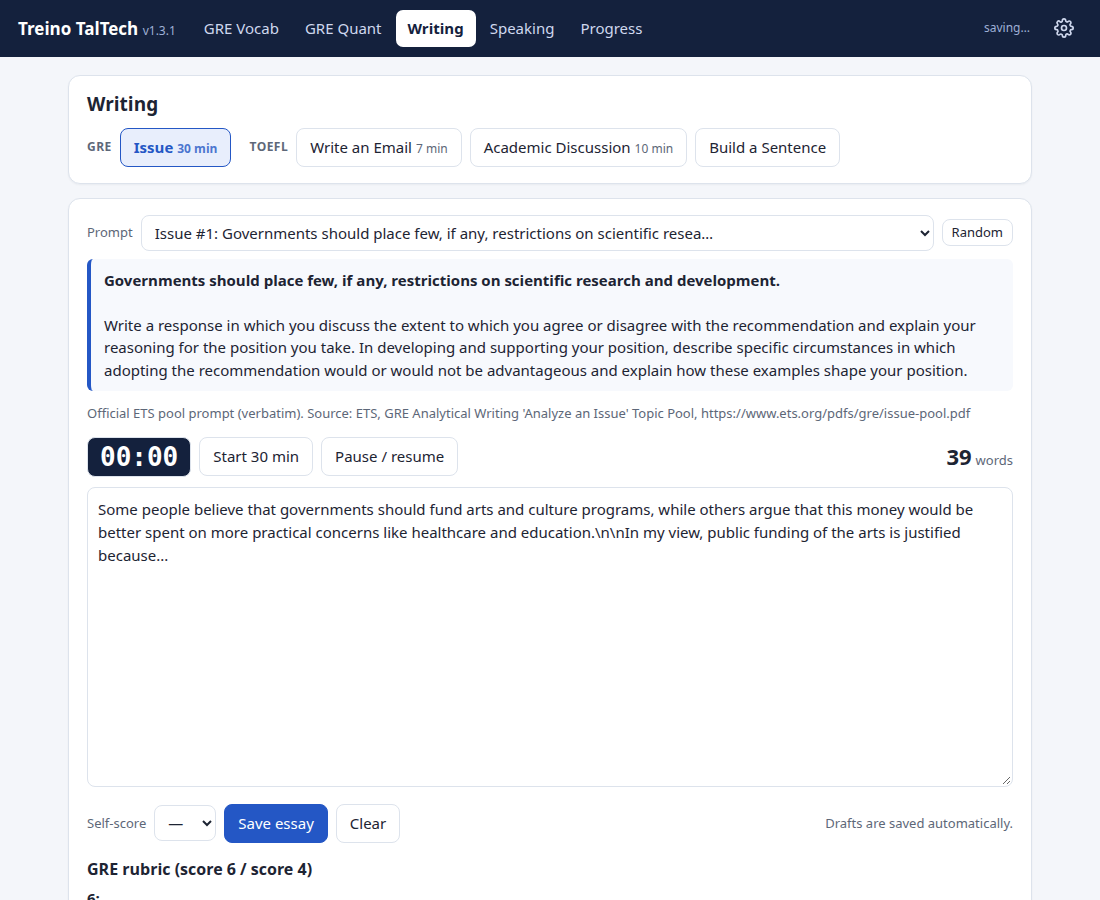
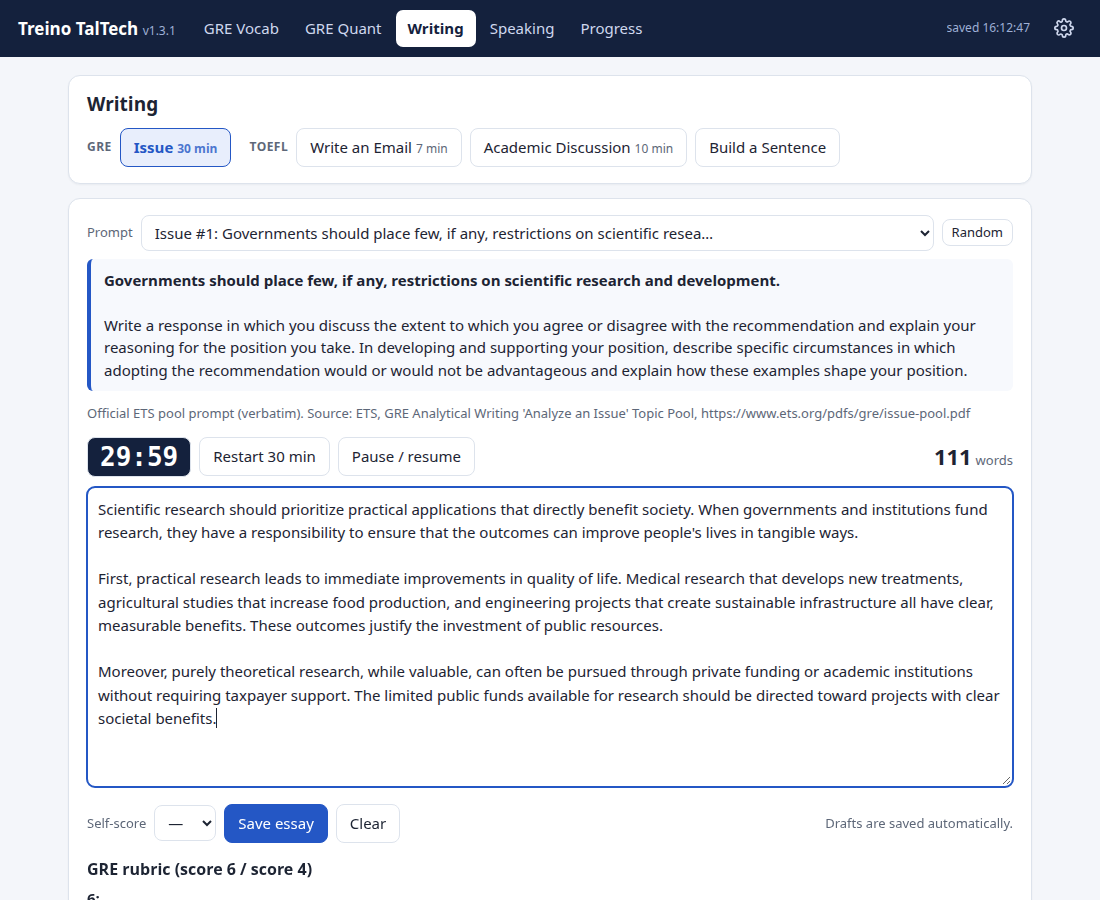
fix: Correct factual errors and improve presentation quality
- Fix README: Issue essay timer is 30 minutes, not 45
- Add specific timers for TOEFL tasks (Email 7 min, Discussion 10 min)
- Correct Go version badge to 1.27.3+ to match go.mod
- Replace dual hero screenshots with single composed hero banner (1600x800)
- Regenerate all screenshots with clean state (no transient saving status)
- Fix writing screenshot with realistic essay text matching prompt and running timer
- Remove temporary screenshot generation files
- Add CHANGELOG.md for version history

diff --git a/README.md b/README.md
@@ -10,13 +10,12 @@
 
 <p align="center">
   <img alt="Platform" src="https://img.shields.io/badge/platform-Windows-blue">
-  <img alt="Go" src="https://img.shields.io/badge/Go-1.27+-00ADD8?logo=go">
+  <img alt="Go" src="https://img.shields.io/badge/Go-1.27.3+-00ADD8?logo=go">
   <img alt="License" src="https://img.shields.io/badge/license-MIT-green">
 </p>
 
 <p align="center">
-  <img src="docs/images/00-hero-light.png" alt="TreinoTalTech Interface" width="48%">
-  <img src="docs/images/00-hero-dark.png" alt="TreinoTalTech Dark Mode" width="48%">
+  <img src="docs/images/hero.png" alt="TreinoTalTech - Light and Dark Mode" width="100%">
 </p>
 
 ## About
@@ -33,10 +32,10 @@ Built entirely in Go using WebView2, the app runs as a native Windows applicatio
 - **Pronunciation support**: IPA transcription and Web Speech API audio (slow mode available)
 - **Per-set performance**: See your accuracy and progress for each word set
 - **Quantitative Reasoning**: Quantitative comparison (QC), multiple choice (MC), and numeric entry (NE) questions
-- **Issue Essays**: Practice with official ETS Issue pool prompts, timed sessions (45 minutes)
+- **Issue Essays**: Practice with official ETS Issue pool prompts, timed sessions (30 minutes)
 
 ### TOEFL Preparation
-- **Writing tasks**: Email responses, academic discussion, sentence building exercises
+- **Writing tasks**: Email responses (7 minutes), academic discussion (10 minutes), sentence building exercises
 - **Speaking practice**: Listen and repeat, interview questions
 - **Scoring rubrics**: Self-evaluation with ETS-based rubric summaries
 
@@ -86,7 +85,7 @@ Built entirely in Go using WebView2, the app runs as a native Windows applicatio
 
 <p align="center">
   <img src="docs/images/05-writing-timer.png" alt="Essay writing with timer" width="80%">
-  <br><em>Issue essay editor with 45-minute timer and prompt display</em>
+  <br><em>Issue essay editor with 30-minute timer and prompt display</em>
 </p>
 
 </details>
@@ -137,7 +136,7 @@ The app handles schema migrations automatically and creates `.bak` backup files 
 
 ## Building from Source
 
-**Prerequisites**: Go 1.27 or later
+**Prerequisites**: Go 1.27.3 or later
 
 **Cross-compile for Windows from Linux/macOS**:
 ```bash

diff --git a/CHANGELOG.md b/CHANGELOG.md
@@ -1,0 +1,45 @@
+# Changelog
+
+All notable changes to TreinoTalTech will be documented in this file.
+
+## [1.3.1] - 2026-10-30
+
+Initial public release.
+
+### Features
+
+#### GRE Preparation
+- Vocabulary practice with 60 words across 4 sets
+- Definition quizzes with IPA pronunciation and audio support
+- Text completion and sentence equivalence exercises
+- Review mistakes mode with per-set performance tracking
+- Quantitative reasoning practice (QC, MC, NE questions)
+- Issue essay writing with official ETS prompts (30-minute timer)
+
+#### TOEFL Preparation
+- Writing tasks: Email responses (7 minutes), academic discussion (10 minutes), sentence building
+- Speaking practice: Listen and repeat, interview questions
+- Scoring rubrics for self-evaluation
+
+#### General
+- Bilingual UI (Portuguese and English)
+- Light, dark, and system theme support
+- Progress tracking and performance analytics
+- Session persistence across tabs and app restarts
+- Export, import, and reset progress functionality
+- Automatic schema migrations with backup creation
+- DPI-aware window sizing for high-resolution displays
+
+### Technical
+- Built with Go 1.27.3 and go-webview2
+- Single executable with embedded HTML/CSS/JS UI
+- Progress stored locally in `%APPDATA%\TreinoTalTech\progresso.json`
+- Pure Go implementation, no cgo required
+- Cross-compiled from Linux for Windows (GOOS=windows GOARCH=amd64)
+
+### Content
+- 60 curated GRE vocabulary words with definitions and example sentences
+- Original text completion and sentence equivalence practice items
+- GRE quantitative reasoning questions
+- Official ETS Issue essay prompts from the published pool
+- Original TOEFL writing and speaking practice tasks
